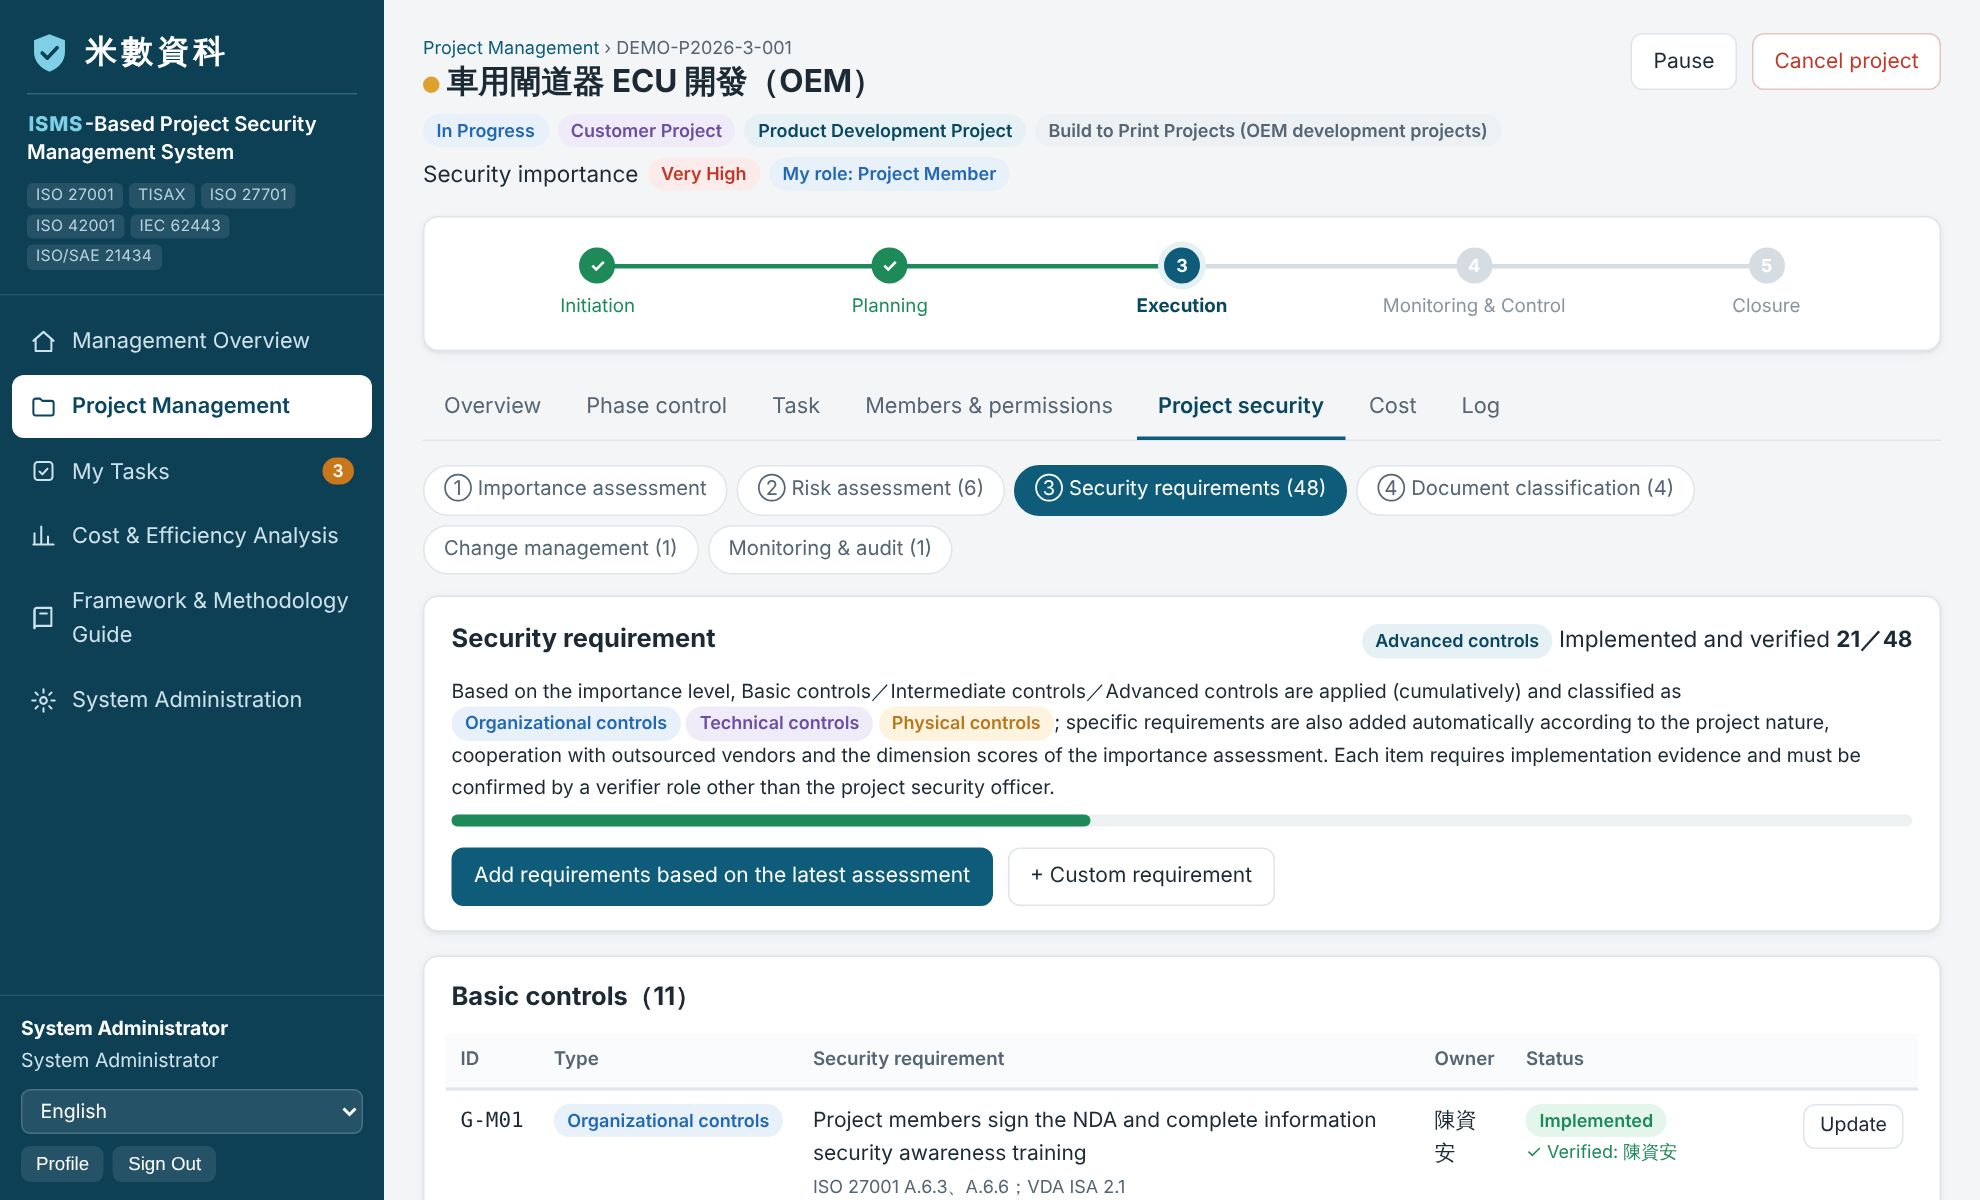
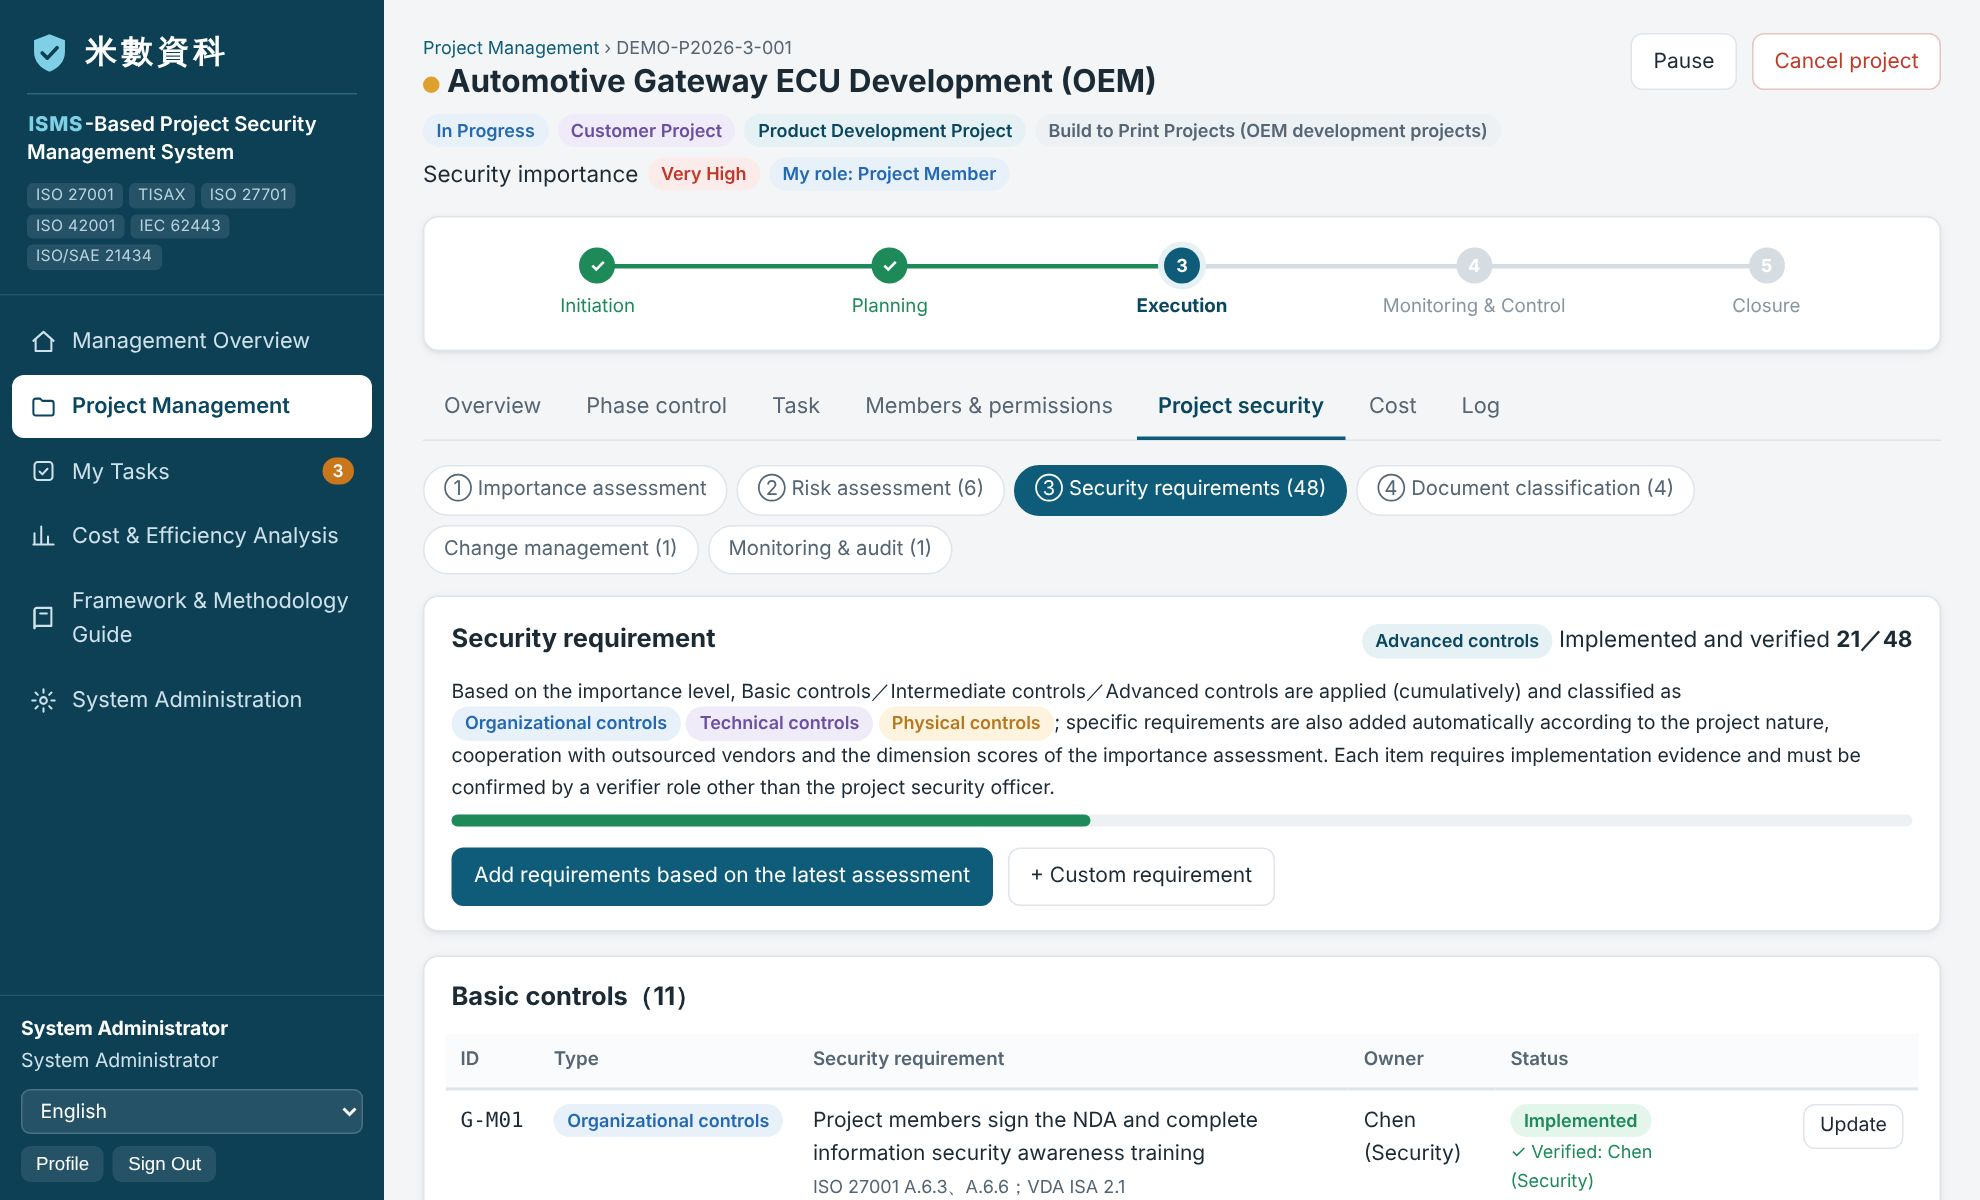
Refresh language screenshots with translated sample data
Claude-Session: https://claude.ai/code/session_01C7NPA7LAtJEHAgEhJeY4dZ

diff --git a/index.html b/index.html
@@ -325,7 +325,7 @@ footer { border-top: 1px solid var(--line); color: var(--dim); font-size: 13px; 
       <div class="frame"><div class="bar"><i></i><i></i><i></i><span id="langTitle"></span></div><div class="shotbox" id="langbox"></div></div>
     </div>
   </div>
-  <p class="note center rv">專案名稱、工作內容等由使用者輸入的資料，以及貴公司自行修改的制度內容，會以輸入時的文字呈現。</p>
+  <p class="note center rv">畫面為系統內建的範例專案，四種語言皆備。貴公司自行輸入的專案資料與自訂的制度內容，會以輸入時的文字呈現。</p>
 </div></section>
 
 <section id="features"><div class="wrap">
